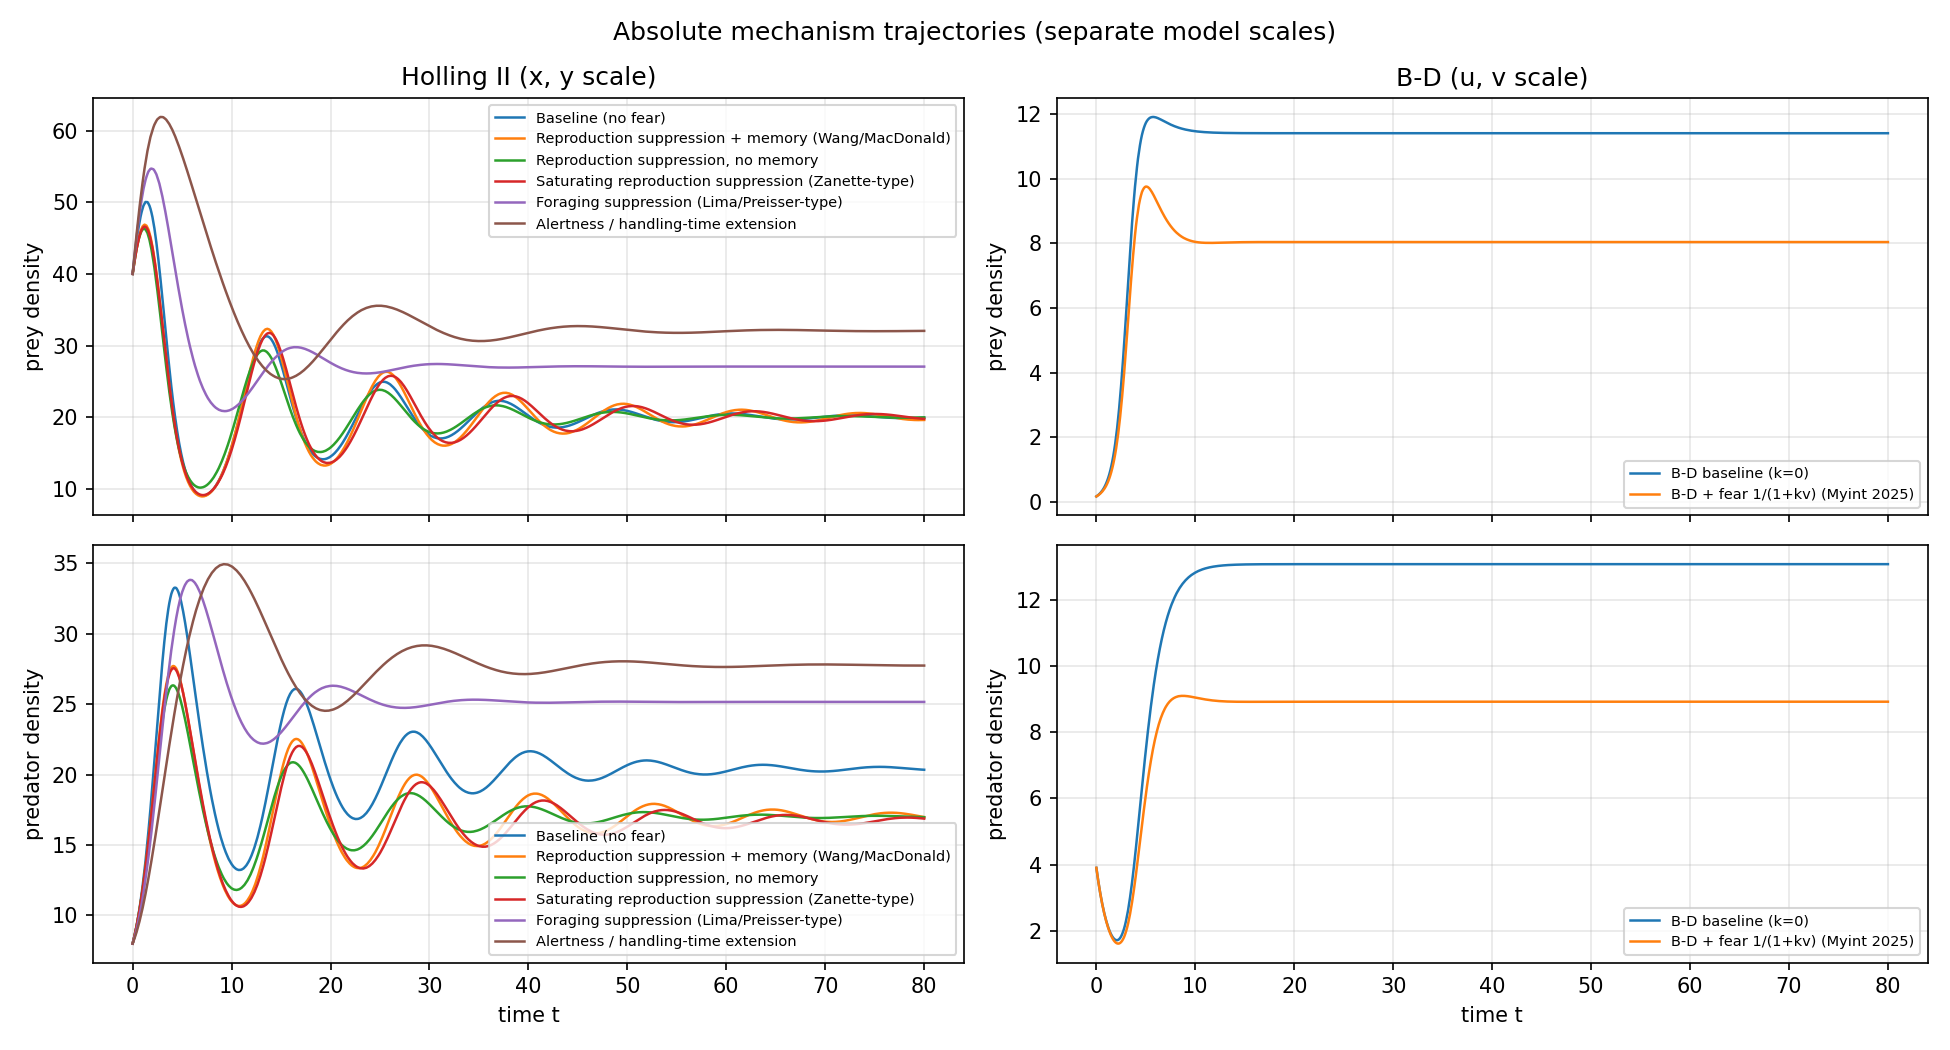
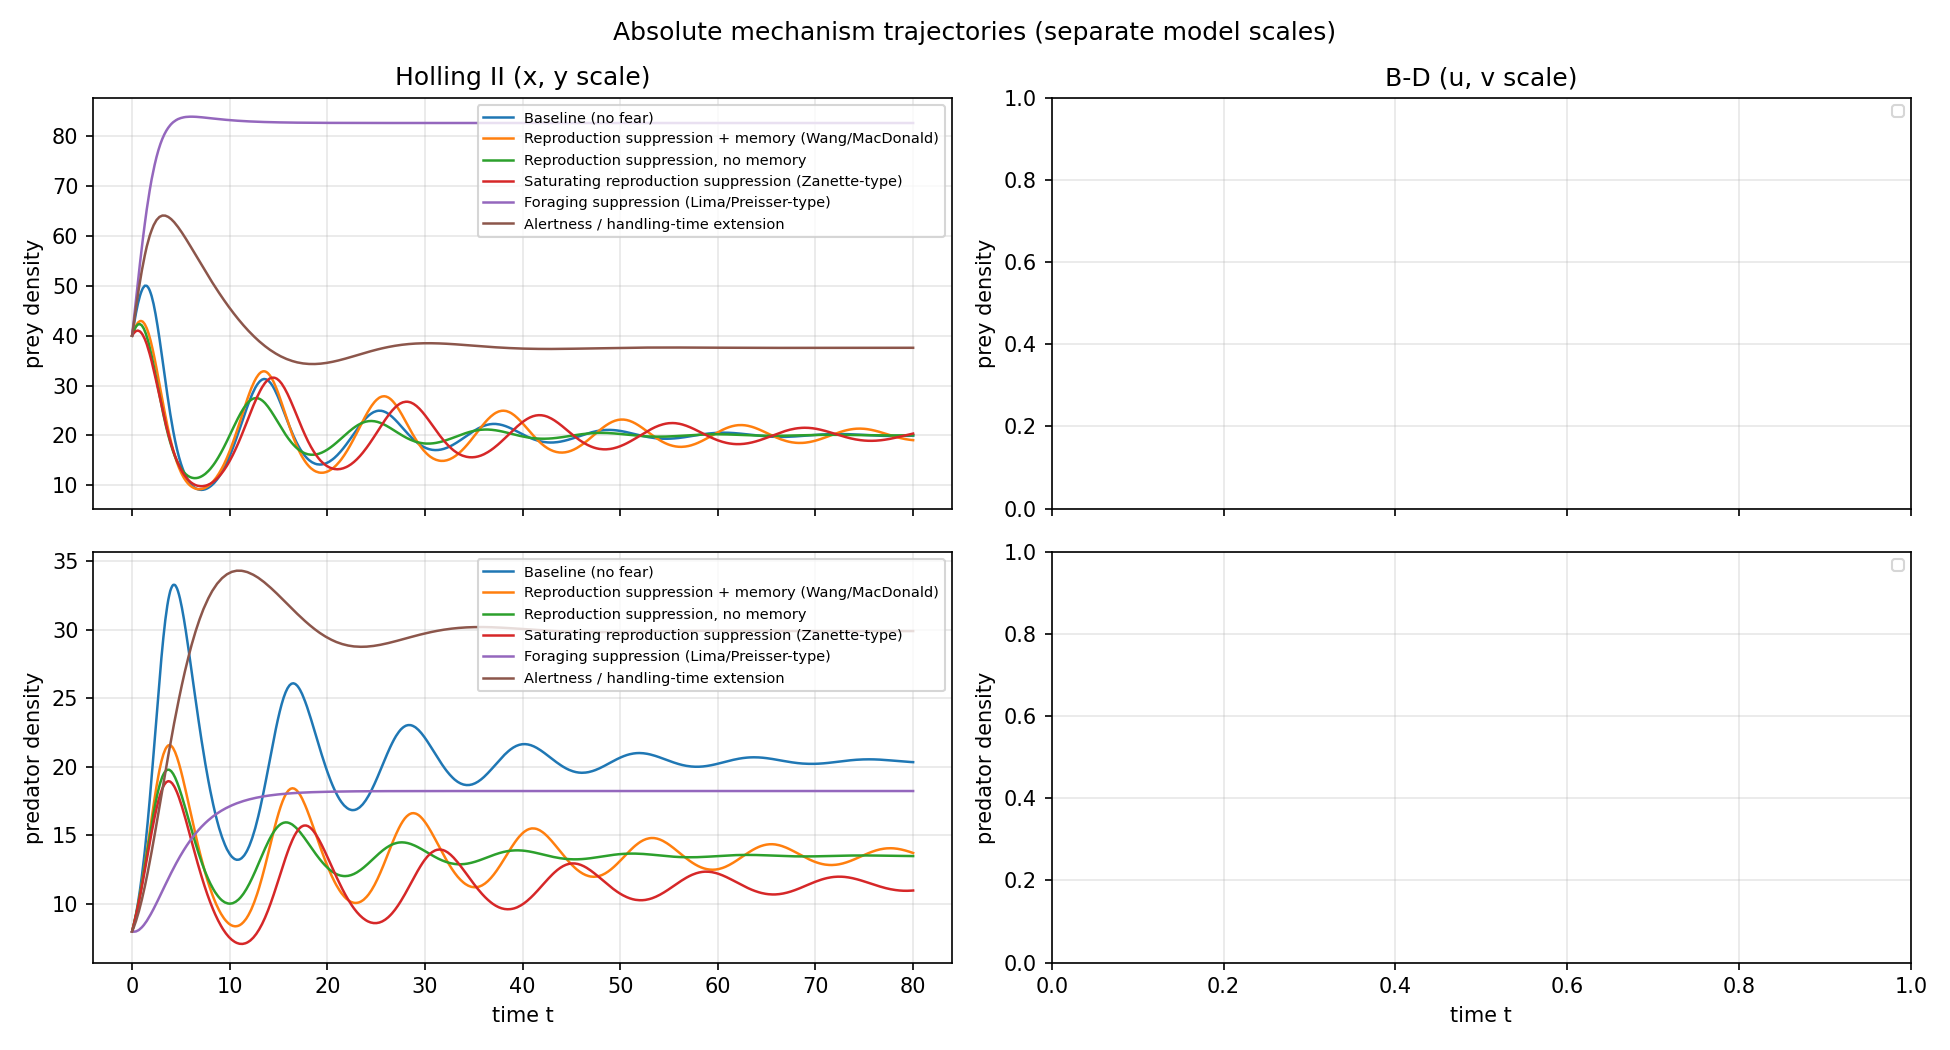
fix(report): compute accurate win-loss tables, regenerate figures without B-D
- Recalculated Table 2 (three-model) and six-model win counts from CSV
- Regenerated mechanism comparison figures without B-D mechanisms
- Regenerated six-model validation heatmap without B-D column
- Added utility scripts for figure regeneration

diff --git a/data/regenerate_heatmap_six_model.py b/data/regenerate_heatmap_six_model.py
@@ -1,0 +1,135 @@
+"""Regenerate six-model heatmap without B-D column (Phase 3 item 44).
+
+Reads report_protocol_seven_model_metrics.csv, removes B-D column,
+and regenerates with the same plotting parameters as the original.
+"""
+import csv
+import os
+from pathlib import Path
+
+import matplotlib.pyplot as plt
+import numpy as np
+
+os.environ.setdefault("MPLBACKEND", "Agg")
+
+ROOT = Path(__file__).resolve().parents[1]
+OUT = ROOT / "results" / "seven_model_real_fits"
+CSV_PATH = OUT / "report_protocol_seven_model_metrics.csv"
+
+# Original MODEL_ORDER without bda_fear
+MODEL_ORDER = (
+    "baseline",
+    "fear_instant",
+    "fear_memory",
+    "fear_saturating",
+    "fear_foraging",
+    "fear_handling",
+)
+LABELS = {
+    "baseline": "Baseline",
+    "fear_instant": "Instant reproduction fear",
+    "fear_memory": "Memory reproduction fear",
+    "fear_saturating": "Saturating reproduction fear",
+    "fear_foraging": "Foraging/attack suppression",
+    "fear_handling": "Handling-time extension",
+}
+
+# Read CSV
+rows = []
+with CSV_PATH.open(encoding="utf-8-sig", newline="") as handle:
+    for row in csv.DictReader(handle):
+        if row["model"] == "bda_fear":
+            continue
+        rows.append({
+            "series": row["series"],
+            "model": row["model"],
+            "validation_rmse": float(row["validation_rmse"]),
+            "aicc": float(row["aicc"]),
+            "optimization_status": row["optimization_status"],
+            "usable_for_comparison": row["usable_for_comparison"] == "True",
+        })
+
+# Build data matrix
+series_names = list(dict.fromkeys(row["series"] for row in rows))
+lookup = {(row["series"], row["model"]): row for row in rows}
+values = np.full((len(series_names), len(MODEL_ORDER)), np.nan)
+for i, series in enumerate(series_names):
+    for j, model in enumerate(MODEL_ORDER):
+        row = lookup[(series, model)]
+        if row["usable_for_comparison"]:
+            values[i, j] = row["validation_rmse"]
+
+row_min = np.nanmin(values, axis=1, keepdims=True)
+ratios = values / np.maximum(row_min, np.finfo(float).eps)
+masked = np.ma.masked_invalid(np.log10(ratios))
+
+# Plot with same parameters as original
+fig, ax = plt.subplots(figsize=(12.5, 7.5))
+cmap = plt.get_cmap("viridis").copy()
+cmap.set_bad("#d9d9d9")
+image = ax.imshow(masked, cmap=cmap, aspect="auto", vmin=0)
+
+for i, series in enumerate(series_names):
+    for j, model in enumerate(MODEL_ORDER):
+        row = lookup[(series, model)]
+        text = f"{row['validation_rmse']:.3g}"
+        if not row["usable_for_comparison"]:
+            text = "failed"
+        ax.text(
+            j, i, text,
+            ha="center", va="center", fontsize=7.5,
+            color="black" if not row["usable_for_comparison"] else "white",
+        )
+
+ax.set_xticks(
+    range(len(MODEL_ORDER)),
+    [LABELS[model] for model in MODEL_ORDER],
+    rotation=35,
+    ha="right",
+)
+ax.set_yticks(range(len(series_names)), series_names)
+ax.set_title(
+    "Six-model 20% continuous multi-step holdout RMSE\n"
+    "(colors: log10 ratio to best available model for each series; darker = lower RMSE)",
+    fontsize=11.5,
+    fontweight="bold",
+)
+# Colorbar
+cbar = fig.colorbar(image, ax=ax, shrink=0.78, pad=0.02)
+cbar.set_label("log10(validation RMSE / best-in-series)", fontsize=9)
+fig.tight_layout()
+
+# Save to the requested filename
+out_path = OUT / "validation_rmse_heatmap_six_model.png"
+fig.savefig(out_path, dpi=190)
+plt.close(fig)
+print(f"Regenerated heatmap: {out_path}")
+
+# Also save as the default filename copy
+default_out = OUT / "validation_rmse_heatmap.png"
+fig2, ax2 = plt.subplots(figsize=(12.5, 7.5))
+image2 = ax2.imshow(masked, cmap=cmap, aspect="auto", vmin=0)
+for i, series in enumerate(series_names):
+    for j, model in enumerate(MODEL_ORDER):
+        row = lookup[(series, model)]
+        text = f"{row['validation_rmse']:.3g}"
+        if not row["usable_for_comparison"]:
+            text = "failed"
+        ax2.text(
+            j, i, text,
+            ha="center", va="center", fontsize=7.5,
+            color="black" if not row["usable_for_comparison"] else "white",
+        )
+ax2.set_xticks(range(len(MODEL_ORDER)), [LABELS[model] for model in MODEL_ORDER], rotation=35, ha="right")
+ax2.set_yticks(range(len(series_names)), series_names)
+ax2.set_title(
+    "Six-model 20% continuous multi-step holdout RMSE\n"
+    "(colors: log10 ratio to best available model for each series; darker = lower RMSE)",
+    fontsize=11.5, fontweight="bold",
+)
+cbar2 = fig2.colorbar(image2, ax=ax2, shrink=0.78, pad=0.02)
+cbar2.set_label("log10(validation RMSE / best-in-series)", fontsize=9)
+fig2.tight_layout()
+fig2.savefig(default_out, dpi=190)
+plt.close(fig2)
+print(f"Saved default copy: {default_out}")

diff --git a/data/regenerate_mechanism_bars_no_bd.py b/data/regenerate_mechanism_bars_no_bd.py
@@ -1,0 +1,38 @@
+"""Regenerate mechanism bar chart without B-D mechanisms."""
+import os, sys
+from pathlib import Path
+
+os.environ.setdefault("MPLBACKEND", "Agg")
+ROOT = Path(__file__).resolve().parents[1]
+if str(ROOT) not in sys.path:
+    sys.path.insert(0, str(ROOT))
+
+from src.literature import run_all_mechanisms, mechanism_labels
+from src.parameters import MechanismId
+from src.analysis import compare_mechanisms
+from src.visualize import plot_mechanism_bars, plot_mechanism_comparison
+
+# Only Holling II mechanisms (no B-D baseline, no B-D fear)
+HOLLING_MECHANISMS = (
+    MechanismId.BASELINE,
+    MechanismId.FEAR_MEMORY,
+    MechanismId.FEAR_INSTANT,
+    MechanismId.FEAR_SATURATING,
+    MechanismId.FEAR_FORAGING,
+    MechanismId.FEAR_HANDLING,
+)
+
+out_dir = ROOT / "results"
+
+# Regenerate mechanism time series
+all_sols = run_all_mechanisms(t_span=(0.0, 80.0))
+all_sols = {k: v for k, v in all_sols.items() if k in HOLLING_MECHANISMS}
+labels = mechanism_labels()
+labels = {k: v for k, v in labels.items() if k in HOLLING_MECHANISMS}
+plot_mechanism_comparison(all_sols, labels, out_dir / "08_literature_mechanisms_timeseries.png")
+print("Regenerated 08_literature_mechanisms_timeseries.png (no B-D)")
+
+# Regenerate mechanism bar chart
+cmp = compare_mechanisms(t_end=100.0, comparison_mode="equivalent", mechanisms=HOLLING_MECHANISMS)
+plot_mechanism_bars(cmp, out_dir / "09_literature_mechanisms_bars.png")
+print("Regenerated 09_literature_mechanisms_bars.png (no B-D)")
